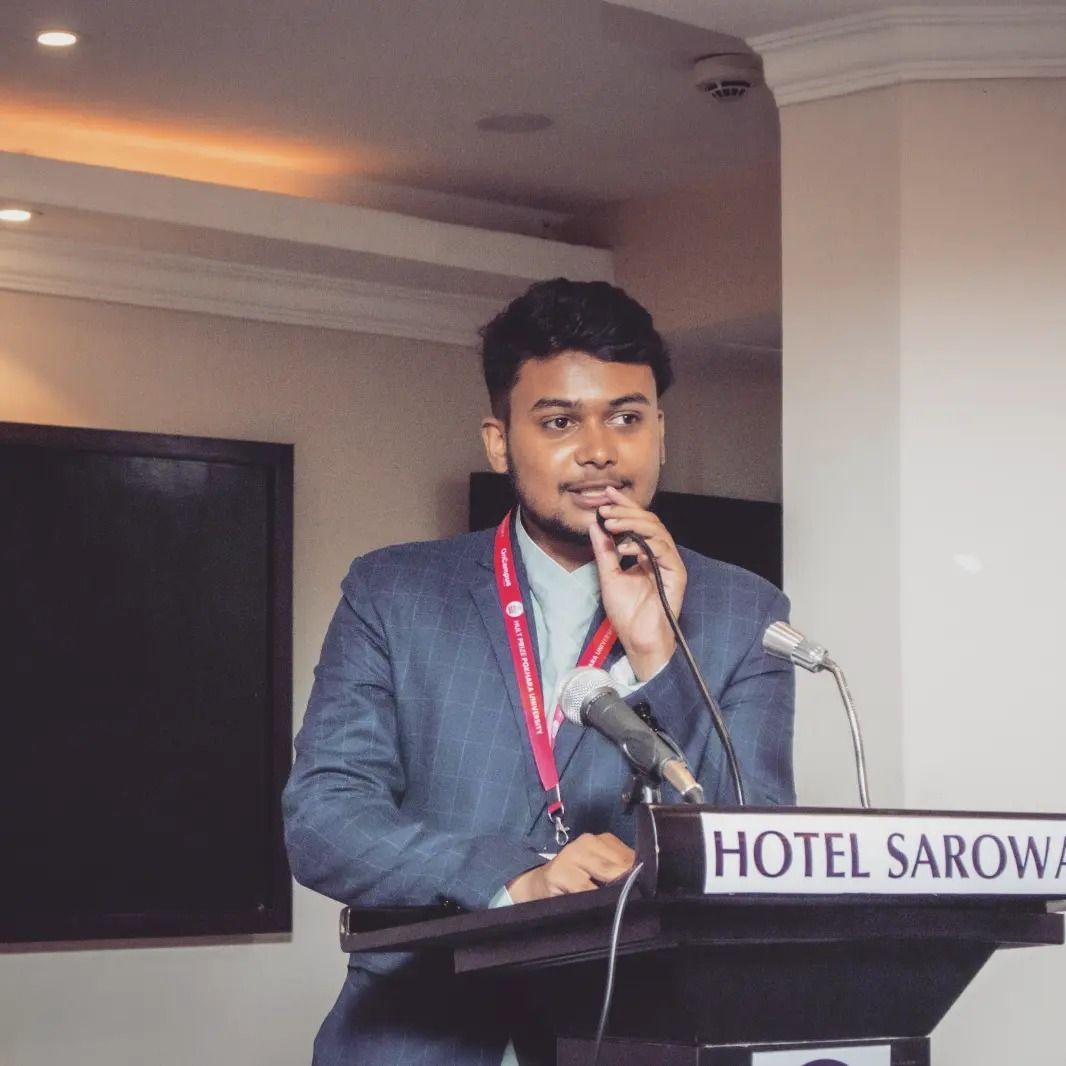
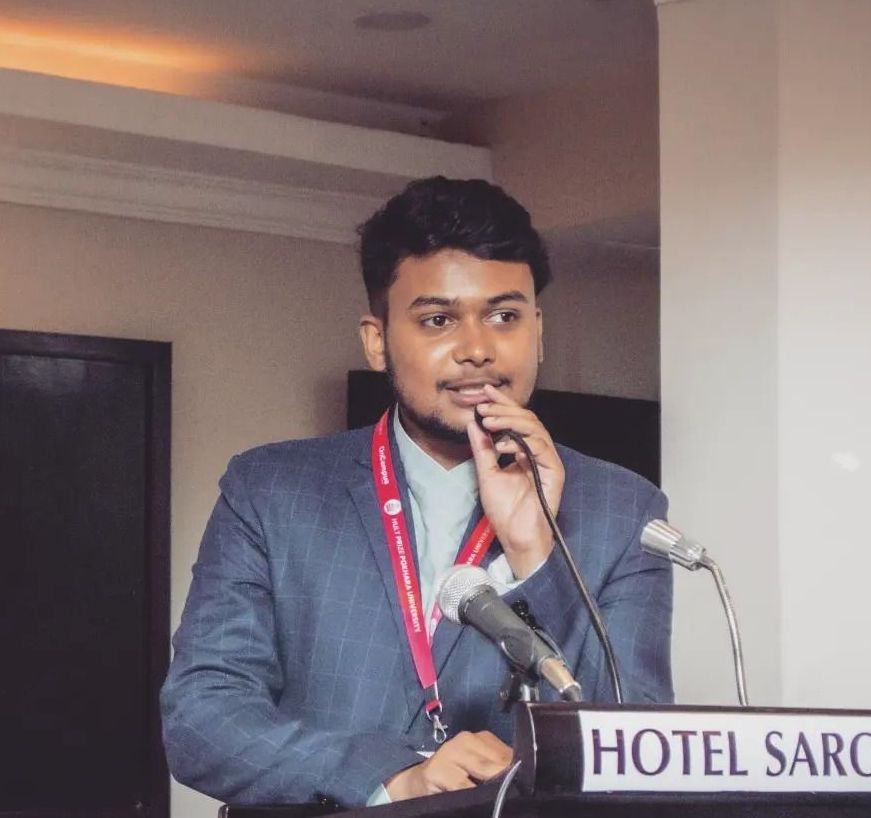
bod image updated

diff --git a/index.html b/index.html
@@ -152,7 +152,7 @@
 
       <div class="p-2 lg:w-1/3 md:w-1/2 w-full">
         <div class="h-full flex items-center border-gray-200 border p-4 rounded-lg">
-          <img alt="team" class="w-16 h-16 bg-gray-100 object-cover object-center flex-shrink-0 rounded-full mr-4" src="https://scontent.fktm10-1.fna.fbcdn.net/v/t39.30808-1/285640138_370579178469785_8922005255923205720_n.jpg?stp=dst-jpg_p480x480&_nc_cat=106&ccb=1-7&_nc_sid=7206a8&_nc_ohc=GxWZDIWs2uMAX9DWa5l&_nc_ht=scontent.fktm10-1.fna&oh=00_AfDDAmEVzD1fBDBY5xzXyEKZz2LemJIJs7tMVgAqSc_UhA&oe=64EDB030">
+          <img alt="team" class="w-16 h-16 bg-gray-100 object-cover object-center flex-shrink-0 rounded-full mr-4" src="./asset/image/bod-image/RAMIN-GHIMIRE.jpg">
           <div class="flex-grow">
             <h2 class="text-gray-900 title-font font-medium">PAST PRESIDENT</h2>
             <p class="text-gray-500">RTR. RAMIN GHIMIRE</p>
@@ -163,7 +163,7 @@
 
       <div class="p-2 lg:w-1/3 md:w-1/2 w-full">
         <div class="h-full flex items-center border-gray-200 border p-4 rounded-lg">
-          <img alt="team" class="w-16 h-16 bg-gray-100 object-cover object-center flex-shrink-0 rounded-full mr-4" src="https://t.ly/50hYT">
+          <img alt="team" class="w-16 h-16 bg-gray-100 object-cover object-center flex-shrink-0 rounded-full mr-4" src="./asset/image/bod-image/RIWAJ-BHURTEL.jpg">
           <div class="flex-grow">
             <h2 class="text-gray-900 title-font font-medium">PRESIDENT</h2>
             <p class="text-gray-500">RTR. RIWAJ BHURTEL</p>
@@ -172,7 +172,7 @@
       </div>
       <div class="p-2 lg:w-1/3 md:w-1/2 w-full">
         <div class="h-full flex items-center border-gray-200 border p-4 rounded-lg">
-          <img alt="team" class="w-16 h-16 bg-gray-100 object-cover object-center flex-shrink-0 rounded-full mr-4" src="https://scontent.fktm10-1.fna.fbcdn.net/v/t39.30808-6/330157566_235700265562422_4387163630895299219_n.jpg?_nc_cat=101&ccb=1-7&_nc_sid=09cbfe&_nc_ohc=tZQN9ATUBAgAX-RRnJB&_nc_ht=scontent.fktm10-1.fna&oh=00_AfDtG0tkIRFq3roffEaQ44Om5WZ7NOPJZhdqLo9STHOeOg&oe=64EE4B26">
+          <img alt="team" class="w-16 h-16 bg-gray-100 object-cover object-center flex-shrink-0 rounded-full mr-4" src="./asset/image/bod-image/BIDHAN-BASTOLA.jpg">
           <div class="flex-grow">
             <h2 class="text-gray-900 title-font font-medium">VICE PRESIDENT</h2>
             <p class="text-gray-500">RTR. BIDHAN BASTOLA</p>
@@ -186,7 +186,7 @@
 
       <div class="p-2 lg:w-1/3 md:w-1/2 w-full">
         <div class="h-full flex items-center border-gray-200 border p-4 rounded-lg">
-          <img alt="team" class="w-16 h-16 bg-gray-100 object-cover object-center flex-shrink-0 rounded-full mr-4" src="https://t.ly/ojOiT">
+          <img alt="team" class="w-16 h-16 bg-gray-100 object-cover object-center flex-shrink-0 rounded-full mr-4" src="./asset/image/bod-image/Unisha Sapkota VP.jpg">
           <div class="flex-grow">
             <h2 class="text-gray-900 title-font font-medium">VICE PRESIDENT</h2>
             <p class="text-gray-500">RTR. UNISHA SAPKOTA</p>
@@ -197,7 +197,7 @@
 
       <div class="p-2 lg:w-1/3 md:w-1/2 w-full">
         <div class="h-full flex items-center border-gray-200 border p-4 rounded-lg">
-          <img alt="team" class="w-16 h-16 bg-gray-100 object-cover object-center flex-shrink-0 rounded-full mr-4" src="https://t.ly/mXbG1">
+          <img alt="team" class="w-16 h-16 bg-gray-100 object-cover object-center flex-shrink-0 rounded-full mr-4" src="./asset/image/bod-image/Punam Sapkota VP.jpeg">
           <div class="flex-grow">
             <h2 class="text-gray-900 title-font font-medium">VICE PRESIDENT</h2>
             <p class="text-gray-500">RTR. PUNAM SAPKOTA</p>
@@ -208,7 +208,7 @@
 
       <div class="p-2 lg:w-1/3 md:w-1/2 w-full">
         <div class="h-full flex items-center border-gray-200 border p-4 rounded-lg">
-          <img alt="team" class="w-16 h-16 bg-gray-100 object-cover object-center flex-shrink-0 rounded-full mr-4" src="https://t.ly/k1yL0">
+          <img alt="team" class="w-16 h-16 bg-gray-100 object-cover object-center flex-shrink-0 rounded-full mr-4" src="./asset/image/bod-image/SWETA-ARYAL.jpg">
           <div class="flex-grow">
             <h2 class="text-gray-900 title-font font-medium">SECRETARY</h2>
             <p class="text-gray-500">RTR. SWETA ARYAL</p>
@@ -228,7 +228,7 @@
 
       <div class="p-2 lg:w-1/3 md:w-1/2 w-full">
         <div class="h-full flex items-center border-gray-200 border p-4 rounded-lg">
-          <img alt="team" class="w-16 h-16 bg-gray-100 object-cover object-center flex-shrink-0 rounded-full mr-4" src="https://t.ly/qz6WC">
+          <img alt="team" class="w-16 h-16 bg-gray-100 object-cover object-center flex-shrink-0 rounded-full mr-4" src="./asset/image/bod-image/Sushil Luitel Finace Chair.jpeg">
           <div class="flex-grow">
             <h2 class="text-gray-900 title-font font-medium">FINANCE CHAIR</h2>
             <p class="text-gray-500">RTR. SUSHIL LUITEL</p>
@@ -238,7 +238,7 @@
 
       <div class="p-2 lg:w-1/3 md:w-1/2 w-full">
         <div class="h-full flex items-center border-gray-200 border p-4 rounded-lg">
-          <img alt="team" class="w-16 h-16 bg-gray-100 object-cover object-center flex-shrink-0 rounded-full mr-4" src="https://scontent.fktm10-1.fna.fbcdn.net/v/t39.30808-6/293406393_1954867798235170_9003331359194972815_n.jpg?_nc_cat=105&ccb=1-7&_nc_sid=e3f864&_nc_ohc=wGjBvn4qWi4AX-SIq5x&_nc_ht=scontent.fktm10-1.fna&oh=00_AfBNm5DUMPFfy8zrhinVm4XDW8Iz6y8T8M0luuPEwz76mA&oe=64EE345A">
+          <img alt="team" class="w-16 h-16 bg-gray-100 object-cover object-center flex-shrink-0 rounded-full mr-4" src="./asset/image/bod-image/SANDEEP-ADHIKARI.jpg">
           <div class="flex-grow">
             <h2 class="text-gray-900 title-font font-medium">FOUNDATION CHAIR</h2>
             <p class="text-gray-500">RTR. SANDEEP ADHIKARI</p>
@@ -249,7 +249,7 @@
 
       <div class="p-2 lg:w-1/3 md:w-1/2 w-full">
         <div class="h-full flex items-center border-gray-200 border p-4 rounded-lg">
-          <img alt="team" class="w-16 h-16 bg-gray-100 object-cover object-center flex-shrink-0 rounded-full mr-4" src="https://scontent.fktm10-1.fna.fbcdn.net/v/t39.30808-6/341759000_762956988599238_2236930987624802359_n.jpg?_nc_cat=105&ccb=1-7&_nc_sid=e3f864&_nc_ohc=hBFsO0MSq5sAX-gjZUw&_nc_oc=AQmg_yg3S24as2-l5ACFS-ar6VLSLgfVeutn27w0oX5_WANI7T63Hc83fZKdjloR_6sfNJzEKREJEkZp4y8Q-EAz&_nc_ht=scontent.fktm10-1.fna&oh=00_AfDMbBtDvtVLoHrmCT0OSDUE0L6WuQyvfzYN86nyV45K-Q&oe=64EDC669">
+          <img alt="team" class="w-16 h-16 bg-gray-100 object-cover object-center flex-shrink-0 rounded-full mr-4" src="./asset/image/bod-image/ABISHEK-LAMSAL.jpg">
           <div class="flex-grow">
             <h2 class="text-gray-900 title-font font-medium">SERGEANT AT ARMS</h2>
             <p class="text-gray-500">RTR. ABISHEK LAMSAL</p>
@@ -258,7 +258,7 @@
       </div>
       <div class="p-2 lg:w-1/3 md:w-1/2 w-full">
         <div class="h-full flex items-center border-gray-200 border p-4 rounded-lg">
-          <img alt="team" class="w-16 h-16 bg-gray-100 object-cover object-center flex-shrink-0 rounded-full mr-4" src="https://scontent.fktm10-1.fna.fbcdn.net/v/t1.6435-9/147398770_205189111340444_2819828237787847154_n.jpg?_nc_cat=110&ccb=1-7&_nc_sid=8bfeb9&_nc_ohc=wNXXI3npHWYAX_0pLVc&_nc_ht=scontent.fktm10-1.fna&oh=00_AfB0-5UDEyRim9TXW_9GFMWNswvsjh4IXeQz4jenTvMA6A&oe=650FF78D">
+          <img alt="team" class="w-16 h-16 bg-gray-100 object-cover object-center flex-shrink-0 rounded-full mr-4" src="./asset/image/bod-image/BHUMIKA-THAPA.jpg">
           <div class="flex-grow">
             <h2 class="text-gray-900 title-font font-medium">JOINT SECRETARY</h2>
             <p class="text-gray-500">RTR. BHUMIKA THAPA</p>
@@ -267,7 +267,7 @@
       </div>
       <div class="p-2 lg:w-1/3 md:w-1/2 w-full">
         <div class="h-full flex items-center border-gray-200 border p-4 rounded-lg">
-          <img alt="team" class="w-16 h-16 bg-gray-100 object-cover object-center flex-shrink-0 rounded-full mr-4" src="https://scontent.fktm10-1.fna.fbcdn.net/v/t39.30808-6/322730589_730855161471285_4487383681793027258_n.jpg?_nc_cat=111&ccb=1-7&_nc_sid=e3f864&_nc_ohc=Mqn4p8j_hdcAX8CBuH6&_nc_ht=scontent.fktm10-1.fna&oh=00_AfDSVscNfpzvNIeRRW2__tIFpiULQEetGFeeE-MDJcOxpQ&oe=64EE7333">
+          <img alt="team" class="w-16 h-16 bg-gray-100 object-cover object-center flex-shrink-0 rounded-full mr-4" src="./asset/image/bod-image/Binu Tumbapo Joint Finance Chair.jpeg">
           <div class="flex-grow">
             <h2 class="text-gray-900 title-font font-medium">JOINT FINANCE</h2>
             <p class="text-gray-500">RTR. BINU TUMBAPO</p>
@@ -276,7 +276,7 @@
       </div>
       <div class="p-2 lg:w-1/3 md:w-1/2 w-full">
         <div class="h-full flex items-center border-gray-200 border p-4 rounded-lg">
-          <img alt="team" class="w-16 h-16 bg-gray-100 object-cover object-center flex-shrink-0 rounded-full mr-4" src="https://scontent.fktm10-1.fna.fbcdn.net/v/t39.30808-6/324599017_476818921288841_2337435392718727000_n.jpg?_nc_cat=101&ccb=1-7&_nc_sid=09cbfe&_nc_ohc=_R6OYStWHvMAX99euHs&_nc_ht=scontent.fktm10-1.fna&oh=00_AfAAu7OC-PvBUnvGZfQ9B8axlvlS9gN_RES2K0FRW5dtpw&oe=64EE130A">
+          <img alt="team" class="w-16 h-16 bg-gray-100 object-cover object-center flex-shrink-0 rounded-full mr-4" src="./asset/image/bod-image/SAFAL-KOIRALA.jpg">
           <div class="flex-grow">
             <h2 class="text-gray-900 title-font font-medium">CREATIVE CHAIR</h2>
             <p class="text-gray-500">RTR. SAFAL KOIRALA</p>
@@ -285,7 +285,7 @@
       </div>
       <div class="p-2 lg:w-1/3 md:w-1/2 w-full">
         <div class="h-full flex items-center border-gray-200 border p-4 rounded-lg">
-          <img alt="team" class="w-16 h-16 bg-gray-100 object-cover object-center flex-shrink-0 rounded-full mr-4" src="https://scontent.fktm10-1.fna.fbcdn.net/v/t39.30808-1/246933615_2718817388411581_5632504660840154004_n.jpg?stp=dst-jpg_s480x480&_nc_cat=100&ccb=1-7&_nc_sid=7206a8&_nc_ohc=pYs7YK4UaWEAX_-T8Sk&_nc_ht=scontent.fktm10-1.fna&oh=00_AfClTdpVJXxBghxUX0RshoZoP9TEsJpwALqYd31mHQNTiw&oe=64ED321B">
+          <img alt="team" class="w-16 h-16 bg-gray-100 object-cover object-center flex-shrink-0 rounded-full mr-4" src="./asset/image/bod-image/PRABHAT-PANDIT.jpg">
           <div class="flex-grow">
             <h2 class="text-gray-900 title-font font-medium">IT OFFICER</h2>
             <p class="text-gray-500">RTR. PRABHAT PANDIT</p>
@@ -294,7 +294,7 @@
       </div>
       <div class="p-2 lg:w-1/3 md:w-1/2 w-full">
         <div class="h-full flex items-center border-gray-200 border p-4 rounded-lg">
-          <img alt="team" class="w-16 h-16 bg-gray-100 object-cover object-center flex-shrink-0 rounded-full mr-4" src="https://scontent.fktm10-1.fna.fbcdn.net/v/t39.30808-6/348218368_799128388272651_1454689730185205403_n.jpg?_nc_cat=111&ccb=1-7&_nc_sid=730e14&_nc_ohc=FoXr0HzclAAAX9Cvigt&_nc_ht=scontent.fktm10-1.fna&oh=00_AfDqxJ5EcanIkN9VdvLN_uKWcPryG9BKqa3FG-TG_pAnRg&oe=64ECC788">
+          <img alt="team" class="w-16 h-16 bg-gray-100 object-cover object-center flex-shrink-0 rounded-full mr-4" src="./asset/image/bod-image/BISHAL-MEHTA.jpg">
           <div class="flex-grow">
             <h2 class="text-gray-900 title-font font-medium">IT OFFICER</h2>
             <p class="text-gray-500">RTR. BISHAL METHA</p>
@@ -310,7 +310,7 @@
         </div>
       </div><div class="p-2 lg:w-1/3 md:w-1/2 w-full">
         <div class="h-full flex items-center border-gray-200 border p-4 rounded-lg">
-          <img alt="team" class="w-16 h-16 bg-gray-100 object-cover object-center flex-shrink-0 rounded-full mr-4" src="https://scontent.fktm10-1.fna.fbcdn.net/v/t39.30808-6/358119091_1893003614388558_1536164966040677622_n.jpg?stp=cp6_dst-jpg&_nc_cat=104&ccb=1-7&_nc_sid=8bfeb9&_nc_ohc=x-Yespcpq0kAX9mHDeu&_nc_ht=scontent.fktm10-1.fna&oh=00_AfAlXI17WBEcTHWQU9pXNxwbr2rRY3lxPTP55KwIDbvESw&oe=64EE5E66">
+          <img alt="team" class="w-16 h-16 bg-gray-100 object-cover object-center flex-shrink-0 rounded-full mr-4" src="./asset/image/bod-image/SACHIN-GHIMIRE.jpg">
           <div class="flex-grow">
             <h2 class="text-gray-900 title-font font-medium">CLUB ADMINISTRATION</h2>
             <p class="text-gray-500">RTR. SACHIN GHIMIRE</p>
@@ -318,7 +318,7 @@
         </div>
       </div><div class="p-2 lg:w-1/3 md:w-1/2 w-full">
         <div class="h-full flex items-center border-gray-200 border p-4 rounded-lg">
-          <img alt="team" class="w-16 h-16 bg-gray-100 object-cover object-center flex-shrink-0 rounded-full mr-4" src="https://scontent.fktm10-1.fna.fbcdn.net/v/t1.6435-9/89606647_2425035414380362_7684541540244389888_n.jpg?_nc_cat=102&ccb=1-7&_nc_sid=8bfeb9&_nc_ohc=wjbliBEDayoAX9Y241P&_nc_ht=scontent.fktm10-1.fna&oh=00_AfATlHYnWaCoWnzmZedaIhdrD8xp5a5-bX69iXqqm-6jUA&oe=651024E1">
+          <img alt="team" class="w-16 h-16 bg-gray-100 object-cover object-center flex-shrink-0 rounded-full mr-4" src="./asset/image/bod-image/ASHIM-GHIMIRE.jpg">
           <div class="flex-grow">
             <h2 class="text-gray-900 title-font font-medium">PROFESSIONAL DEVELOPMENT</h2>
             <p class="text-gray-500">RTR. ASHIM GHIMIRE</p>
@@ -326,7 +326,7 @@
         </div>
       </div><div class="p-2 lg:w-1/3 md:w-1/2 w-full">
         <div class="h-full flex items-center border-gray-200 border p-4 rounded-lg">
-          <img alt="team" class="w-16 h-16 bg-gray-100 object-cover object-center flex-shrink-0 rounded-full mr-4" src="https://scontent.fktm10-1.fna.fbcdn.net/v/t39.30808-6/357735737_941698817160914_1350421458954492597_n.jpg?stp=cp6_dst-jpg&_nc_cat=100&ccb=1-7&_nc_sid=730e14&_nc_ohc=dIp9OHvbWuQAX_NeSgd&_nc_ht=scontent.fktm10-1.fna&oh=00_AfAgN-3Ica_v96NEv_zyrRrHDO5722L84SY4eAmpAOlbHQ&oe=64EE2DA5">
+          <img alt="team" class="w-16 h-16 bg-gray-100 object-cover object-center flex-shrink-0 rounded-full mr-4" src="./asset/image/bod-image/SAUGAT-ACHARYA.jpg">
           <div class="flex-grow">
             <h2 class="text-gray-900 title-font font-medium">PUBLIC IMAGE CHAIR</h2>
             <p class="text-gray-500">RTR. SAUGAT ACHARYA</p>
@@ -334,7 +334,7 @@
         </div>
       </div><div class="p-2 lg:w-1/3 md:w-1/2 w-full">
         <div class="h-full flex items-center border-gray-200 border p-4 rounded-lg">
-          <img alt="team" class="w-16 h-16 bg-gray-100 object-cover object-center flex-shrink-0 rounded-full mr-4" src="asset/Board/nabinkdl1jpg.jpg">
+          <img alt="team" class="w-16 h-16 bg-gray-100 object-cover object-center flex-shrink-0 rounded-full mr-4" src="./asset/image/bod-image/NABIN-KANDEL.jpg">
           <div class="flex-grow">
             <h2 class="text-gray-900 title-font font-medium">JOINT PUBLIC IMAGE CHAIR</h2>
             <p class="text-gray-500">RTR. NABIN KANDEL</p>
@@ -342,7 +342,7 @@
         </div>
       </div><div class="p-2 lg:w-1/3 md:w-1/2 w-full">
         <div class="h-full flex items-center border-gray-200 border p-4 rounded-lg">
-          <img alt="team" class="w-16 h-16 bg-gray-100 object-cover object-center flex-shrink-0 rounded-full mr-4" src="https://scontent.fktm10-1.fna.fbcdn.net/v/t39.30808-6/319726540_5546875905434651_7890482361816389209_n.jpg?stp=cp6_dst-jpg&_nc_cat=110&ccb=1-7&_nc_sid=e3f864&_nc_ohc=fLrruZTNQuoAX_tfHHr&_nc_ht=scontent.fktm10-1.fna&oh=00_AfA6sB_Y7FUS5CBXs_FiO9dnmZ01-_kU5Nafi72VvwbEyg&oe=64EDA3A3">
+          <img alt="team" class="w-16 h-16 bg-gray-100 object-cover object-center flex-shrink-0 rounded-full mr-4" src="./asset/image/bod-image/PRABIN-SUBEDHI.jpg">
           <div class="flex-grow">
             <h2 class="text-gray-900 title-font font-medium">INTERNATIONAL SERVICE</h2>
             <p class="text-gray-500">RTR. PRABIN SUBEDI</p>
@@ -363,7 +363,7 @@
 
       <div class="p-2 lg:w-1/3 md:w-1/2 w-full">
         <div class="h-full flex items-center border-gray-200 border p-4 rounded-lg">
-          <img alt="team" class="w-16 h-16 bg-gray-100 object-cover object-center flex-shrink-0 rounded-full mr-4" src="https://scontent.fktm10-1.fna.fbcdn.net/v/t39.30808-6/359088926_610212904543183_5052183217387300840_n.jpg?stp=dst-jpg_s1080x2048&_nc_cat=107&ccb=1-7&_nc_sid=730e14&_nc_ohc=SNbGLV4Hlv0AX_L48OU&_nc_ht=scontent.fktm10-1.fna&oh=00_AfA65lgWLp0W40bTMK0jlEyhKIUh0izA5qfKEH78OpGYWw&oe=64ED7EE6">
+          <img alt="team" class="w-16 h-16 bg-gray-100 object-cover object-center flex-shrink-0 rounded-full mr-4" src="/asset/image/bod-image/SWORUP-POUDEL.jpg">
           <div class="flex-grow">
             <h2 class="text-gray-900 title-font font-medium">FELLOWSHIP CHAIR</h2>
             <p class="text-gray-500">RTR. SWORUP POUDEL</p>
@@ -373,7 +373,7 @@
 
       <div class="p-2 lg:w-1/3 md:w-1/2 w-full">
         <div class="h-full flex items-center border-gray-200 border p-4 rounded-lg">
-          <img alt="team" class="w-16 h-16 bg-gray-100 object-cover object-center flex-shrink-0 rounded-full mr-4" src="https://scontent.fktm10-1.fna.fbcdn.net/v/t39.30808-6/310887112_621846026271483_70172982401213554_n.jpg?_nc_cat=102&ccb=1-7&_nc_sid=09cbfe&_nc_ohc=y6XgtiaeiHUAX_SD_NT&_nc_ht=scontent.fktm10-1.fna&oh=00_AfCaIl8GFJW1jI5cRFmb_IDHNpqHwwHtdrY_TwxfjZypSQ&oe=64EDE460">
+          <img alt="team" class="w-16 h-16 bg-gray-100 object-cover object-center flex-shrink-0 rounded-full mr-4" src="/asset/image/bod-image/ANGELINA-TIWARI.jpg">
           <div class="flex-grow">
             <h2 class="text-gray-900 title-font font-medium">MEMBERSHIP CHAIR</h2>
             <p class="text-gray-500">RTR. ANGELINA TIWARI</p>
@@ -383,7 +383,7 @@
 
       <div class="p-2 lg:w-1/3 md:w-1/2 w-full">
         <div class="h-full flex items-center border-gray-200 border p-4 rounded-lg">
-          <img alt="team" class="w-16 h-16 bg-gray-100 object-cover object-center flex-shrink-0 rounded-full mr-4" src="https://scontent.fktm10-1.fna.fbcdn.net/v/t39.30808-6/347644534_211993011680589_2969937236106489896_n.jpg?_nc_cat=100&ccb=1-7&_nc_sid=8bfeb9&_nc_ohc=tgi4ZxoixNIAX_b0tZz&_nc_ht=scontent.fktm10-1.fna&oh=00_AfAKgaBVrgCzNL_EQqQbaM_BypNi_yu8HPqQ1wbPIPeRYg&oe=64ECF8BF">
+          <img alt="team" class="w-16 h-16 bg-gray-100 object-cover object-center flex-shrink-0 rounded-full mr-4" src="/asset/image/bod-image/MANISHA-NEUPANE.jpg">
           <div class="flex-grow">
             <h2 class="text-gray-900 title-font font-medium">JOINT SERVICE PROJECT</h2>
             <p class="text-gray-500">RTR. MANISHA NEUPANE</p>
@@ -393,7 +393,7 @@
 
       <div class="p-2 lg:w-1/3 md:w-1/2 w-full">
         <div class="h-full flex items-center border-gray-200 border p-4 rounded-lg">
-          <img alt="team" class="w-16 h-16 bg-gray-100 object-cover object-center flex-shrink-0 rounded-full mr-4" src="https://scontent.fktm10-1.fna.fbcdn.net/v/t39.30808-1/361919250_980712193165898_7223730361993847910_n.jpg?stp=dst-jpg_p480x480&_nc_cat=106&ccb=1-7&_nc_sid=7206a8&_nc_ohc=zGFmC8Zyo7sAX-q9BoD&_nc_ht=scontent.fktm10-1.fna&oh=00_AfCqakYpn-pgFaDoehUlbXLTui-ParOAbxM97msYjoAOuA&oe=64EE59C1">
+          <img alt="team" class="w-16 h-16 bg-gray-100 object-cover object-center flex-shrink-0 rounded-full mr-4" src="/asset/image/bod-image/BIKRAM-DHAMI.jpg">
           <div class="flex-grow">
             <h2 class="text-gray-900 title-font font-medium">JOINT CLUB ADMINISTRATION</h2>
             <p class="text-gray-500">RTR. BIKRAM DHAMI</p>
@@ -403,7 +403,7 @@
 
       <div class="p-2 lg:w-1/3 md:w-1/2 w-full">
         <div class="h-full flex items-center border-gray-200 border p-4 rounded-lg">
-          <img alt="team" class="w-16 h-16 bg-gray-100 object-cover object-center flex-shrink-0 rounded-full mr-4" src="https://scontent.fktm10-1.fna.fbcdn.net/v/t39.30808-6/309054567_429758262588649_3813280739646459753_n.jpg?_nc_cat=107&ccb=1-7&_nc_sid=09cbfe&_nc_ohc=8tRXlX1VgCEAX_oRM3S&_nc_ht=scontent.fktm10-1.fna&oh=00_AfDt5vz0pt2cRl8IGoraxhUB1NOQUnGRj_m48MwHKkHReA&oe=64ED7E42">
+          <img alt="team" class="w-16 h-16 bg-gray-100 object-cover object-center flex-shrink-0 rounded-full mr-4" src="/asset/image/bod-image/Anuja Poudel Joint PDC.jpg">
           <div class="flex-grow">
             <h2 class="text-gray-900 title-font font-medium">JOINT PROFESSIONAL</h2>
             <p class="text-gray-500">RTR. ANUJA POUDEL</p>
@@ -413,7 +413,7 @@
 
       <div class="p-2 lg:w-1/3 md:w-1/2 w-full">
         <div class="h-full flex items-center border-gray-200 border p-4 rounded-lg">
-          <img alt="team" class="w-16 h-16 bg-gray-100 object-cover object-center flex-shrink-0 rounded-full mr-4" src="https://scontent.fktm10-1.fna.fbcdn.net/v/t39.30808-6/347393659_195238243438293_695334697918867865_n.jpg?_nc_cat=102&ccb=1-7&_nc_sid=174925&_nc_ohc=o_JRQs_0QyYAX__IGWt&_nc_oc=AQk0U4ooN4WGZ9DND_0fTGaZk--acsMZW3EoQEi4vwQOvJMdQSLIMxr1FATWBCZ9YY-ixcuqsYKu9NGr8TRoO5qW&_nc_ht=scontent.fktm10-1.fna&oh=00_AfA0gdWvzXNL0_3IIonav4uDk94CMeG8sk6TaStzrcd7yA&oe=64EDCFBA">
+          <img alt="team" class="w-16 h-16 bg-gray-100 object-cover object-center flex-shrink-0 rounded-full mr-4" src="/asset/image/bod-image/ANUPAMA-TIWARI.jpg">
           <div class="flex-grow">
             <h2 class="text-gray-900 title-font font-medium">JOINT INTERNATIONAL</h2>
             <p class="text-gray-500">RTR. ANUPAMA TIWARI</p>
@@ -423,7 +423,7 @@
 
       <div class="p-2 lg:w-1/3 md:w-1/2 w-full">
         <div class="h-full flex items-center border-gray-200 border p-4 rounded-lg">
-          <img alt="team" class="w-16 h-16 bg-gray-100 object-cover object-center flex-shrink-0 rounded-full mr-4" src="https://scontent.fktm10-1.fna.fbcdn.net/v/t39.30808-1/305049689_953229636057080_2480130825685307187_n.jpg?stp=dst-jpg_p480x480&_nc_cat=106&ccb=1-7&_nc_sid=7206a8&_nc_ohc=GJoTTbntfU4AX-8k-lU&_nc_ht=scontent.fktm10-1.fna&oh=00_AfDLa-90fH5AmV3VSSFw2LM6F_dknzeosa8344wCbstyMg&oe=64EE53E4">
+          <img alt="team" class="w-16 h-16 bg-gray-100 object-cover object-center flex-shrink-0 rounded-full mr-4" src="/asset/image/bod-image/rakesh.jpeg">
           <div class="flex-grow">
             <h2 class="text-gray-900 title-font font-medium">CLUB ADMIN</h2>
             <p class="text-gray-500">RTR. RAKESH MANANDHAR</p>
@@ -433,7 +433,7 @@
 
       <div class="p-2 lg:w-1/3 md:w-1/2 w-full">
         <div class="h-full flex items-center border-gray-200 border p-4 rounded-lg">
-          <img alt="team" class="w-16 h-16 bg-gray-100 object-cover object-center flex-shrink-0 rounded-full mr-4" src="https://scontent.fktm10-1.fna.fbcdn.net/v/t39.30808-6/305839749_2400209233488885_5013956751166707795_n.jpg?_nc_cat=107&ccb=1-7&_nc_sid=e3f864&_nc_ohc=yye_VNENFO0AX9QaRxp&_nc_ht=scontent.fktm10-1.fna&oh=00_AfC7NJb_8b966S_w-nn0X_A62LOhrbaIG2tQtiAlEHc_0Q&oe=64EE1BD5">
+          <img alt="team" class="w-16 h-16 bg-gray-100 object-cover object-center flex-shrink-0 rounded-full mr-4" src="/asset/image/bod-image/Anubhuti Ghimire Editor.jpg">
           <div class="flex-grow">
             <h2 class="text-gray-900 title-font font-medium">EDITOR</h2>
             <p class="text-gray-500">RTR. ANUBHUTI GHIMIRE</p>
